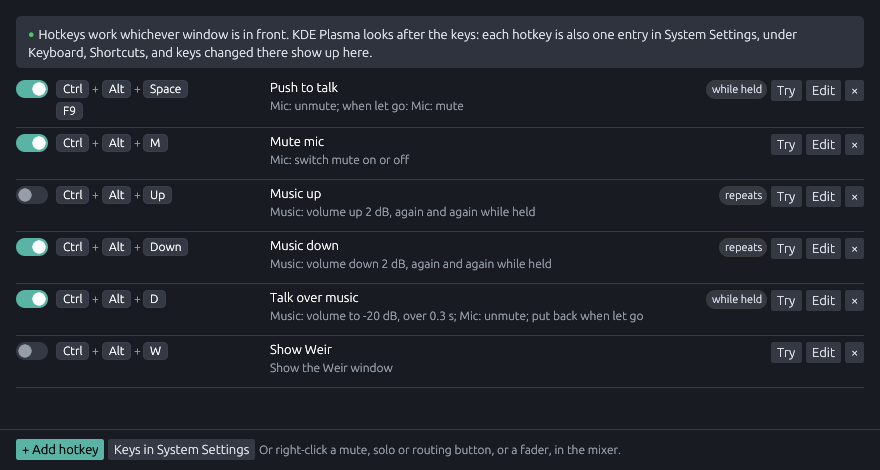
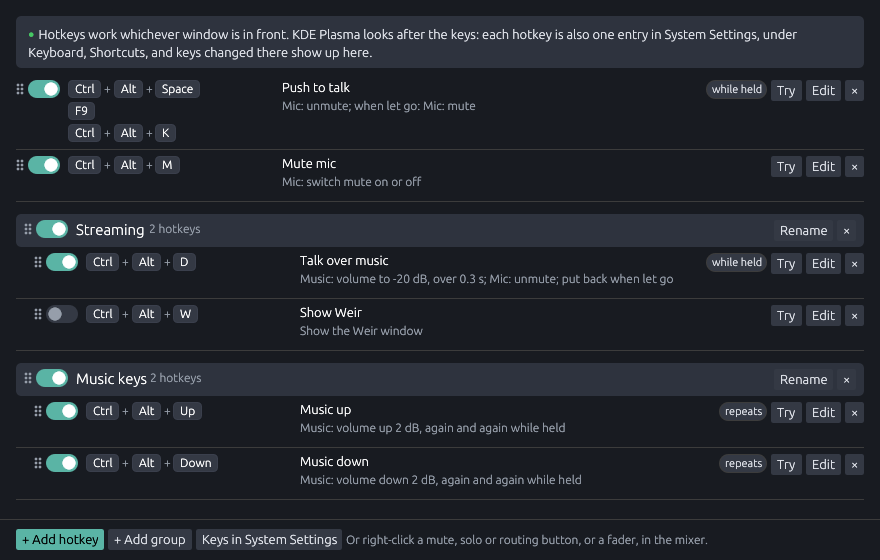
Document putting hotkeys in order and in groups
The user guide gets a Groups section and the dots that move hotkeys,
with a new picture of the list. API.md documents switch_hotkey,
move_hotkey and the four group methods, Hotkey.group, HotkeyGroup and
HotkeysInfo.groups; CLI.md the new weirctl commands;
ARCHITECTURE.md how the list and its groups are kept. The doc
checker removes groups between examples and starts each with an empty
group, "Streaming".

Claude-Session: https://claude.ai/code/session_01PWaMWDrXpfpALWtEnsyueZ

diff --git a/docs/check_examples.py b/docs/check_examples.py
@@ -13,7 +13,8 @@ presets, change settings and add hotkeys:
 
     WEIR_HOTKEYS=none weir-daemon --config /tmp/weir-test/config.toml ...
 
-Each example starts with one hotkey, "Mute mic", with no keys.
+Each example starts with one hotkey, "Mute mic", with no keys, and one empty
+group of hotkeys, "Streaming".
 
 The application examples need an application called Firefox to be playing,
 and use 87 for its id; the check puts in its real one. For instance:
@@ -90,9 +91,18 @@ def reset(mixer):
                           "meter_rate_hz": 30, "startup": "window",
                           "tray_icon": "color"}),
     )
-    for hotkey in mixer.call("list_hotkeys")["hotkeys"]:
-        mixer.call("remove_hotkey", hotkey=hotkey["id"])
+    clear_hotkeys(mixer)
     mixer.call("set_hotkey", **BASELINE_HOTKEY)
+    mixer.call("add_hotkey_group", name="Streaming")
+
+
+def clear_hotkeys(mixer):
+    """Remove every hotkey and group of hotkeys."""
+    info = mixer.call("list_hotkeys")
+    for hotkey in info["hotkeys"]:
+        mixer.call("remove_hotkey", hotkey=hotkey["id"])
+    for group in info.get("groups", []):
+        mixer.call("remove_hotkey_group", group=group["id"])
 
 
 def run(argv, forever, env, cwd):
@@ -196,8 +206,7 @@ def main():
     reset(mixer)
     for kind in ("setup", "scene"):
         mixer.call(f"delete_{kind}", name=BASELINE)
-    for hotkey in mixer.call("list_hotkeys")["hotkeys"]:
-        mixer.call("remove_hotkey", hotkey=hotkey["id"])
+    clear_hotkeys(mixer)
     print(f"{count - failures} of {count} examples passed")
     sys.exit(1 if failures else 0)
 

diff --git a/docs/API.md b/docs/API.md
@@ -33,7 +33,7 @@ Python and Node.js are in [`examples/`](../examples/).
   * [Equalizer presets and the analyzer](#equalizer-presets-and-the-analyzer): `list_eq_presets`, `apply_eq_preset`, `save_eq_preset`, `delete_eq_preset`, `watch_spectrum`
   * [Scenes and setups](#scenes-and-setups): `save_scene`, `load_scene`, `list_scenes`, `delete_scene` and the same for setups
   * [Undo](#undo): `undo`, `redo`, `history`
-  * [Hotkeys](#hotkeys): `list_hotkeys`, `set_hotkey`, `remove_hotkey`, `run_hotkey`, `press_hotkey`, `release_hotkey`, `open_shortcut_settings`
+  * [Hotkeys](#hotkeys): `list_hotkeys`, `set_hotkey`, `remove_hotkey`, `switch_hotkey`, `move_hotkey`, `run_hotkey`, `press_hotkey`, `release_hotkey`, `add_hotkey_group`, `set_hotkey_group`, `remove_hotkey_group`, `move_hotkey_group`, `open_shortcut_settings`
   * [Settings and the window](#settings-and-the-window): `set_settings`, `show_window`
 * [Notifications](#notifications)
 * [Types](#types)
@@ -1234,8 +1234,11 @@ Steps can name strips and buses; the daemon keeps their ids, so renaming
 one does not break a hotkey. A hotkey working on one that was removed is
 listed in `problems`.
 
-There is one list of hotkeys, whatever scene or setup is loaded. The daemon
-keeps it in `~/.config/weir/hotkeys.json`.
+There is one list of hotkeys, whatever scene or setup is loaded, in an
+order of its own: first the hotkeys in no group, then each group with its
+hotkeys. A group is switched on and off as one: while it is off, none of
+its hotkeys' keys work, and each keeps its own switch for when the group
+is on again. The daemon keeps the list in `~/.config/weir/hotkeys.json`.
 
 #### `list_hotkeys`
 
@@ -1267,6 +1270,7 @@ Add a hotkey, or replace one. The parameters are the [Hotkey](#hotkey):
 | `id` | number, *optional* | The hotkey to replace, whole. Left out, or 0, adds a new one. |
 | `name` | string | Unique, ignoring case, up to 60 characters. |
 | `keys` | list of strings, *optional* | Such as `["Ctrl+Alt+M"]`, or several, `["F9", "Ctrl+Alt+T"]`, any of which presses the hotkey: up to 8. See [Keys](#keys). One may be given as a string, `"F9"`. Left out or empty, the hotkey is pressed only by name. Where the desktop looks after the keys, it gets all of them when [KeysStatus](#keysstatus) says `settable` (KDE Plasma), and otherwise only the first is suggested to it, more being added in its settings. |
+| `group` | number, *optional* | The [group](#add_hotkey_group) it is in, by id, or `0` (the default) for none. Changed to another group, it goes last in it. |
 | `enabled` | boolean, *optional* | `false` switches its keys off; it can still be pressed by name. `true` when left out. Where the desktop looks after the keys, it keeps them for a hotkey switched off, once it has had them; with `settable`, it lets other programs use them meanwhile. |
 | `steps` | list of [HotkeyStep](#hotkeystep) | What a press does, up to 32. |
 | `each_press` | string, *optional* | `all`: every step at each press (the default). `next`: the next step only, back to the first after the last. |
@@ -1336,6 +1340,54 @@ mixer.call("remove_hotkey", hotkey="Mute mic")
 await mixer.call("remove_hotkey", { hotkey: "Mute mic" });
 ```
 
+#### `switch_hotkey`
+
+Switch a hotkey's keys on or off, leaving the rest of it as it is.
+
+| Parameter | Type | |
+|---|---|---|
+| `hotkey` | number or string | The hotkey's id or name. |
+| `enabled` | boolean or `"toggle"` | On, off, or the opposite of what it is. |
+
+Returns the [Hotkey](#hotkey).
+
+```sh
+weirctl raw switch_hotkey '{"hotkey": "Mute mic", "enabled": false}'
+```
+
+```python
+mixer.call("switch_hotkey", hotkey="Mute mic", enabled="toggle")
+```
+
+```js
+await mixer.call("switch_hotkey", { hotkey: "Mute mic", enabled: true });
+```
+
+#### `move_hotkey`
+
+Move a hotkey to another place in the list, or into a group.
+
+| Parameter | Type | |
+|---|---|---|
+| `hotkey` | number or string | The hotkey's id or name. |
+| `group` | number or string, *optional* | The group to move it into, by id or name, or `0` for none. Left out, it stays in its group. |
+| `index` | number, *optional* | Its place among the hotkeys of its group, or of no group, counting from 0. Past the end, or left out, means last. |
+
+Returns the [HotkeysInfo](#hotkeysinfo) as it is now.
+
+```sh
+weirctl raw move_hotkey '{"hotkey": "Mute mic", "group": "Streaming"}'
+weirctl raw move_hotkey '{"hotkey": "Mute mic", "group": 0, "index": 0}'
+```
+
+```python
+mixer.call("move_hotkey", hotkey="Mute mic", index=0)
+```
+
+```js
+await mixer.call("move_hotkey", { hotkey: "Mute mic", group: "Streaming", index: 0 });
+```
+
 #### `run_hotkey`, `press_hotkey` and `release_hotkey`
 
 Do what a hotkey's keys do: `run_hotkey` is a tap, down and up at once;
@@ -1362,6 +1414,103 @@ mixer.call("release_hotkey", hotkey="Mute mic")
 
 ```js
 await mixer.call("run_hotkey", { hotkey: "Mute mic" });
+```
+
+#### `add_hotkey_group`
+
+Add a group of hotkeys, last in the list. Hotkeys go into it with
+[`move_hotkey`](#move_hotkey), or with `group` in
+[`set_hotkey`](#set_hotkey).
+
+| Parameter | Type | |
+|---|---|---|
+| `name` | string | Unique among groups, ignoring case, up to 60 characters. |
+| `enabled` | boolean, *optional* | Whether its hotkeys' keys work. `true` when left out. |
+
+Returns the [HotkeyGroup](#hotkeygroup), with its id.
+
+```sh
+weirctl raw add_hotkey_group '{"name": "Games"}'
+```
+
+```python
+games = mixer.call("add_hotkey_group", name="Games", enabled=False)
+mixer.call("move_hotkey", hotkey="Mute mic", group=games["id"])
+```
+
+```js
+const group = await mixer.call("add_hotkey_group", { name: "Games" });
+```
+
+#### `set_hotkey_group`
+
+Rename a group of hotkeys, or switch it on or off. Only what is given
+changes.
+
+| Parameter | Type | |
+|---|---|---|
+| `group` | number or string | The group's id or name. |
+| `name` | string, *optional* | A new name. |
+| `enabled` | boolean or `"toggle"`, *optional* | Switch its hotkeys' keys on or off. Each hotkey keeps its own switch. |
+
+Returns the [HotkeyGroup](#hotkeygroup).
+
+```sh
+weirctl raw set_hotkey_group '{"group": "Streaming", "enabled": "toggle"}'
+```
+
+```python
+mixer.call("set_hotkey_group", group="Streaming", enabled=False)
+```
+
+```js
+await mixer.call("set_hotkey_group", { group: "Streaming", name: "Live" });
+```
+
+#### `remove_hotkey_group`
+
+Remove a group of hotkeys. Its hotkeys stay, in no group.
+
+| Parameter | Type | |
+|---|---|---|
+| `group` | number or string | The group's id or name. |
+
+Returns the [HotkeysInfo](#hotkeysinfo) as it is now.
+
+```sh
+weirctl raw remove_hotkey_group '{"group": "Streaming"}'
+```
+
+```python
+mixer.call("remove_hotkey_group", group="Streaming")
+```
+
+```js
+await mixer.call("remove_hotkey_group", { group: "Streaming" });
+```
+
+#### `move_hotkey_group`
+
+Move a group of hotkeys to another place among the groups.
+
+| Parameter | Type | |
+|---|---|---|
+| `group` | number or string | The group's id or name. |
+| `index` | number | Its place among the groups, counting from 0. Past the end means last. |
+
+Returns the [HotkeysInfo](#hotkeysinfo) as it is now.
+
+```sh
+weirctl raw move_hotkey_group '{"group": "Streaming", "index": 0}'
+```
+
+```python
+mixer.call("add_hotkey_group", name="Games")
+mixer.call("move_hotkey_group", group="Games", index=0)
+```
+
+```js
+await mixer.call("move_hotkey_group", { group: "Streaming", index: 0 });
 ```
 
 #### `open_shortcut_settings`
@@ -1915,8 +2064,20 @@ any.
 ```
 
 The fields are those of [`set_hotkey`](#set_hotkey). Fields at their
-default are left out: `enabled` when `true`, `each_press` when `all`,
-`on_release` when `nothing`.
+default are left out: `enabled` when `true`, `group` when `0`, `each_press`
+when `all`, `on_release` when `nothing`.
+
+### HotkeyGroup
+
+```json
+{"id": 1, "name": "Streaming", "enabled": false}
+```
+
+| Field | Type | |
+|---|---|---|
+| `id` | number | Given by the daemon. |
+| `name` | string | Unique among groups, ignoring case. |
+| `enabled` | boolean, *optional* | Whether its hotkeys' keys work; left out when `true`. |
 
 ### HotkeyStep
 
@@ -1951,7 +2112,8 @@ keys, media keys, `Pause`, `Print` and `ScrollLock` can be on their own.
 
 | Field | Type | |
 |---|---|---|
-| `hotkeys` | list of [Hotkey](#hotkey) | Every hotkey, in the order they were added. |
+| `hotkeys` | list of [Hotkey](#hotkey) | Every hotkey, in their order in the list. Those in a group are listed with it, in the same order. |
+| `groups` | list of [HotkeyGroup](#hotkeygroup), *optional* | Every group, in their order in the list, after the hotkeys in no group. Left out when there are none. |
 | `keys` | [KeysStatus](#keysstatus) | How keys reach Weir on this desktop. |
 | `problems` | list of `{"hotkey": id, "problem": string}` | What is wrong with any of them, in sentences for people: keys another program has, a strip that was removed. Left out when there is nothing wrong. |
 

diff --git a/docs/CLI.md b/docs/CLI.md
@@ -314,9 +314,17 @@ the [control protocol](API.md#hotkeys), so a hotkey can do anything
 | `weirctl hotkey run HOTKEY` | Do what tapping its keys does. |
 | `weirctl hotkey press HOTKEY` | Do what pressing its keys does, until `release`. |
 | `weirctl hotkey release HOTKEY` | Do what letting go of its keys does. |
+| `weirctl hotkey on\|off\|toggle HOTKEY` | Switch its keys on or off. Off, it can still be run by name. |
+| `weirctl hotkey move HOTKEY [--group GROUP] [--to N]` | Move it into a group (`none` for no group), and to place N among the group's hotkeys, counting from 0; last when `--to` is left out. |
+| `weirctl hotkey group add NAME [--off]` | Add a group of hotkeys, last in the list. |
+| `weirctl hotkey group on\|off\|toggle GROUP` | Switch a group's hotkeys' keys on or off. Each hotkey keeps its own switch. |
+| `weirctl hotkey group rename GROUP NAME` | Rename a group. |
+| `weirctl hotkey group move GROUP --to N` | Move a group to place N among the groups. |
+| `weirctl hotkey group remove GROUP` | Remove a group. Its hotkeys stay, in no group. |
 | `weirctl hotkey settings` | Open the desktop's shortcut settings at Weir's hotkeys (KDE Plasma 6.5 and newer). |
 
-HOTKEY is a hotkey's name or id. `add` and `change` take:
+HOTKEY is a hotkey's name or id, and GROUP a group's. `add` and `change`
+take:
 
 | Option | |
 |---|---|
@@ -327,6 +335,7 @@ HOTKEY is a hotkey's name or id. `add` and `change` take:
 | `--release-do STEP` | A step for letting go, like `--do`. |
 | `--repeat MS` | Do the steps again every MS milliseconds while held, 20 to 2000; `0` not to. |
 | `--enabled on\|off\|toggle` | Switch its keys on or off. Off, it can still be run by name. |
+| `--group GROUP` | The group it is in, or `none`. |
 
 ```sh
 weirctl hotkey add "Mic on/off" --keys Ctrl+Alt+M --do 'set_strip {"id": "Mic", "mute": "toggle"}'
@@ -338,6 +347,12 @@ weirctl hotkey change "Music down" --keys Ctrl+Shift+Down
 weirctl hotkey change "Music down" --add-keys VolumeDown
 weirctl hotkeys
 weirctl hotkey run "Mic on/off"
+weirctl hotkey off "Mic on/off"
+weirctl hotkey group add Games
+weirctl hotkey move "Music down" --group Games
+weirctl hotkey move "Talk" --to 0
+weirctl hotkey group off Games
+weirctl hotkey group rename Games Gaming
 weirctl hotkey remove "Fade out"
 ```
 

diff --git a/docs/USER_GUIDE.md b/docs/USER_GUIDE.md
@@ -553,10 +553,12 @@ the music down, load a scene.
 reach Weir on your desktop (see
 [Your desktop and the keys](#your-desktop-and-the-keys)). For each hotkey:
 
+* the **dots** at its left move it: drag it to another place in the list,
+  or into a group.
 * the **switch** turns its keys on or off. Off, it can still be pressed by
   name.
-* its **keys**, and what it does. **while held**, **repeats** and
-  **cycles** say how it behaves.
+* its **keys**, one set to a line, and what it does. **while held**,
+  **repeats** and **cycles** say how it behaves.
 * **Try** does what pressing and letting go of its keys would.
 * **Edit** changes it, and **×** removes it, after asking.
 
@@ -564,6 +566,24 @@ With no hotkeys yet, **Add a few examples** adds push to talk, muting the
 microphone, music up and down, dipping the music to talk over it, and
 bringing up the window, all switched off: switch on the ones you want, and
 change their keys if you like.
+
+### Groups
+
+A group keeps hotkeys together, and switches them on and off together: a
+group for streaming, say, switched on only while you stream. **+ Add
+group** under the list adds one; type its name and press Enter. Groups
+come after the hotkeys in no group, each with its hotkeys under it.
+
+* Drag a hotkey onto a group's header to put it in the group, or between
+  two of its hotkeys. The group can also be picked under **Group** when
+  editing a hotkey. Dragging a hotkey out among those in no group takes it
+  out of its group.
+* A group's **switch** turns all its hotkeys' keys on or off. Its hotkeys
+  are faded while it is off, and each keeps its own switch for when the
+  group is on again.
+* Drag a group by the dots on its header to put it in another place.
+  **Rename** changes its name, and **×** removes it, after asking; its
+  hotkeys stay, in no group.
 
 ### Making a hotkey
 

diff --git a/docs/ARCHITECTURE.md b/docs/ARCHITECTURE.md
@@ -232,7 +232,12 @@ since its callbacks run on their own task.
 **Hotkeys** (`hotkeys/`) are steps, each an ordinary request, so a hotkey
 can do whatever the protocol can and needs nothing of its own in the
 engine. The controller keeps the list (`controller/hotkeys.rs`: checking,
-saving to `hotkeys.json`, noticing strips that are gone); a **runner**
+saving to `hotkeys.json`, noticing strips that are gone), and the groups
+with it: every change goes through `edit_hotkeys`, which changes a copy,
+saves it, and only then takes it. The order of the list is the hotkeys'
+order in the file, those of a group kept in theirs, and a hotkey's keys
+work while it and its group are both on (`hotkey_works`), which is all the
+keys layer is told. A **runner**
 (`hotkeys/runner.rs`) does the work. It is one task with a mailbox that
 key presses, its own repeat and fade timers and a change of hotkeys all
 arrive in; a client pressing a hotkey calls it directly, under its lock,
